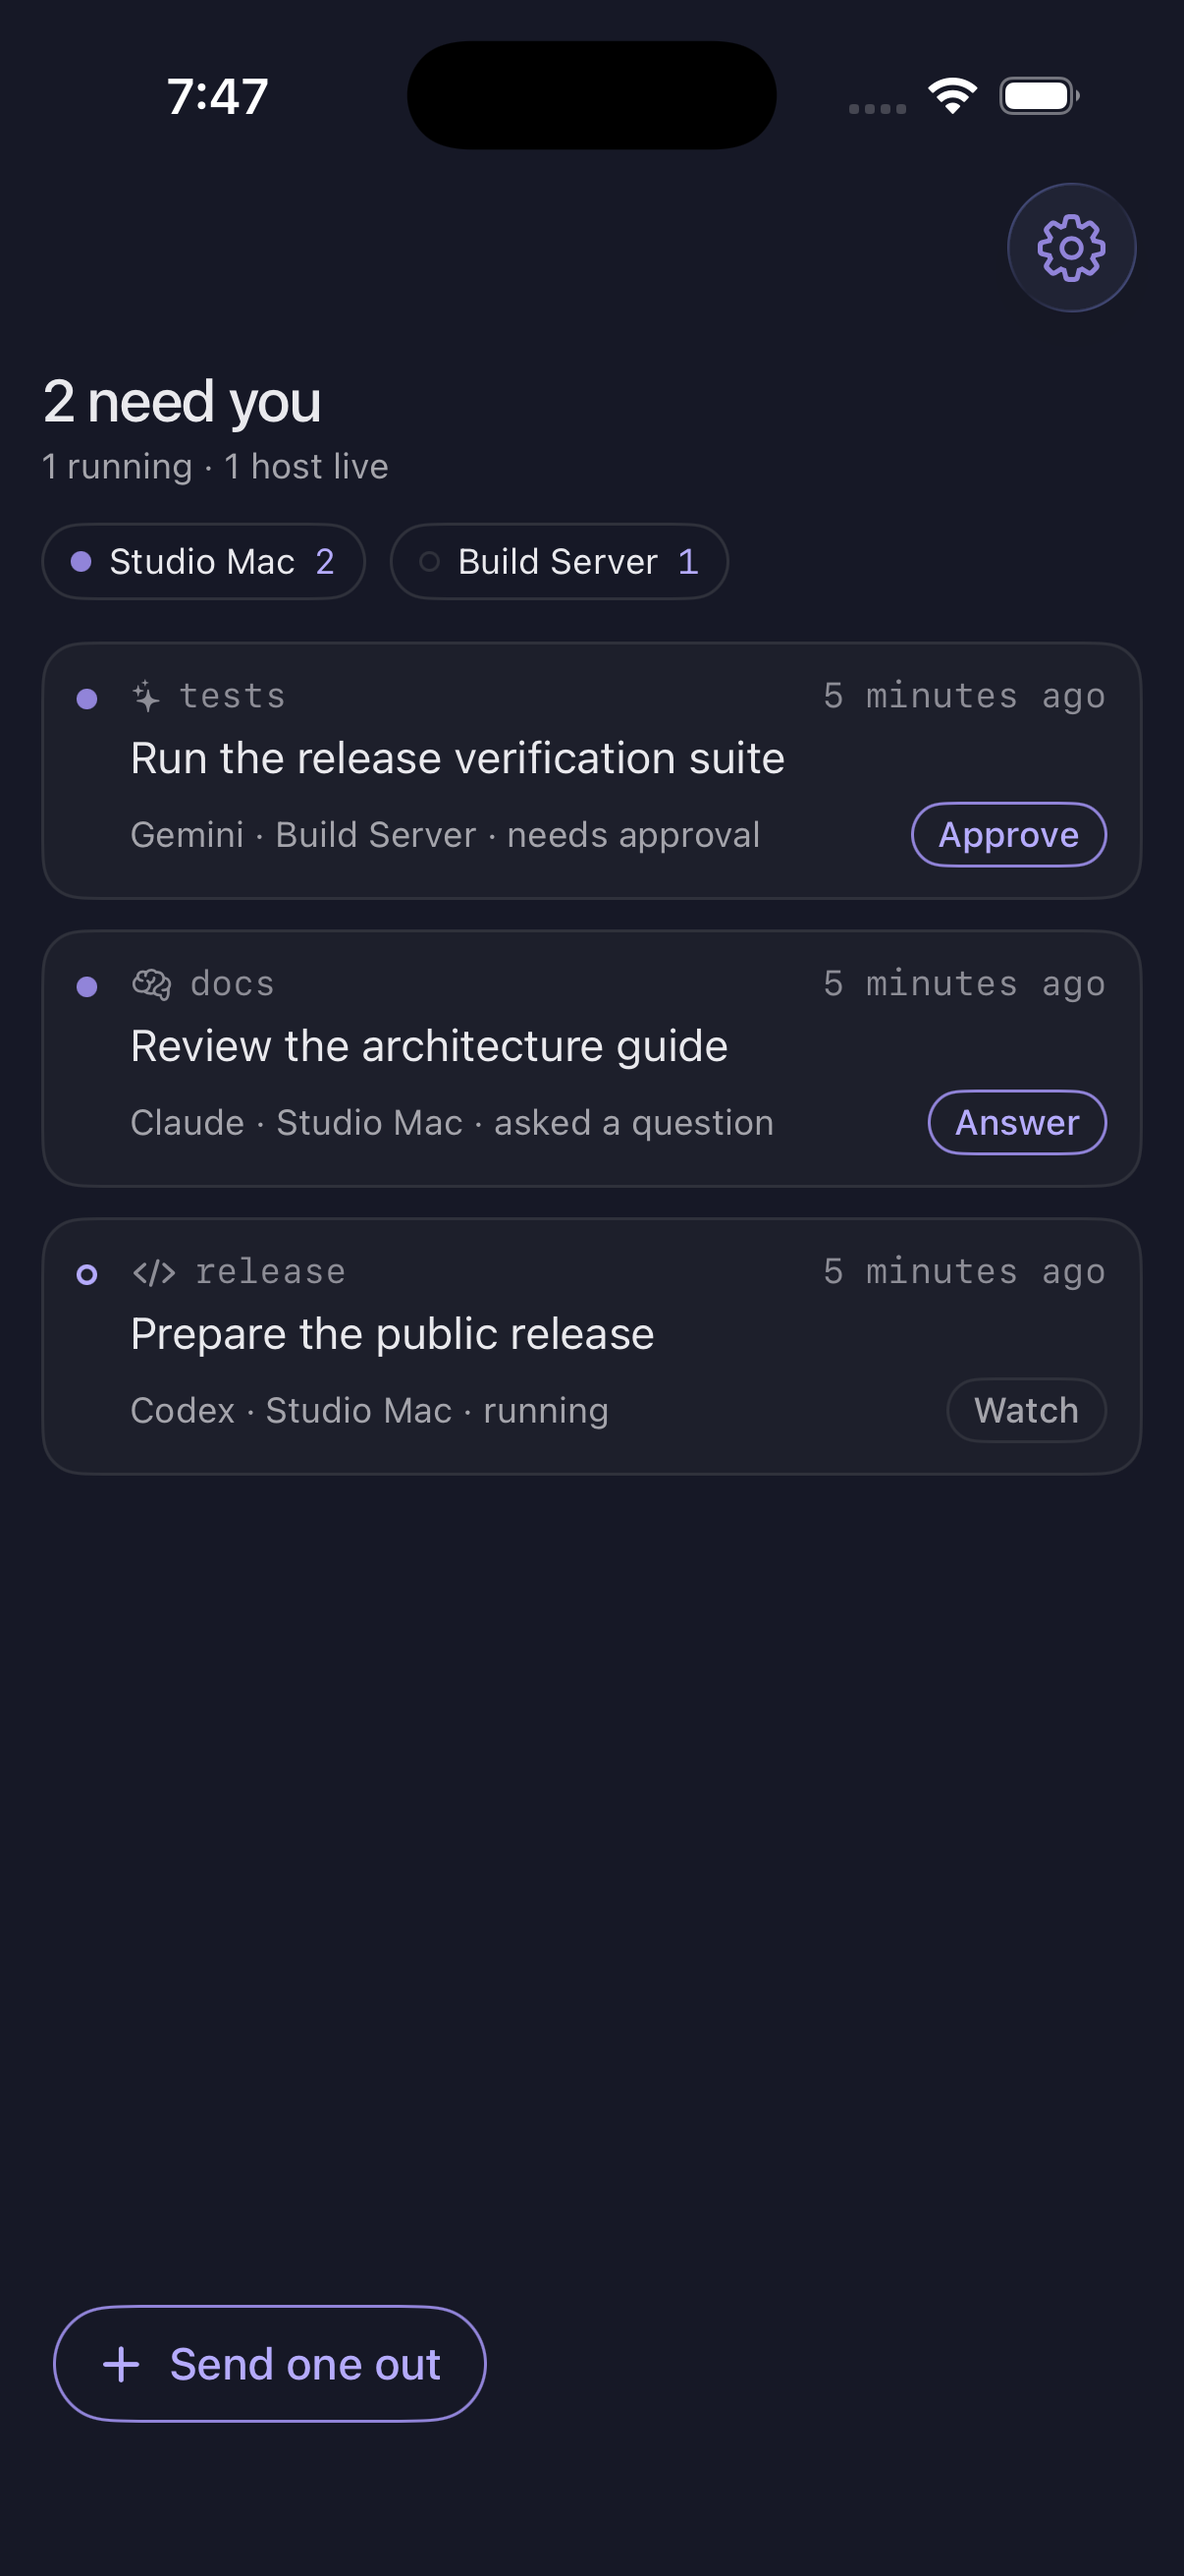
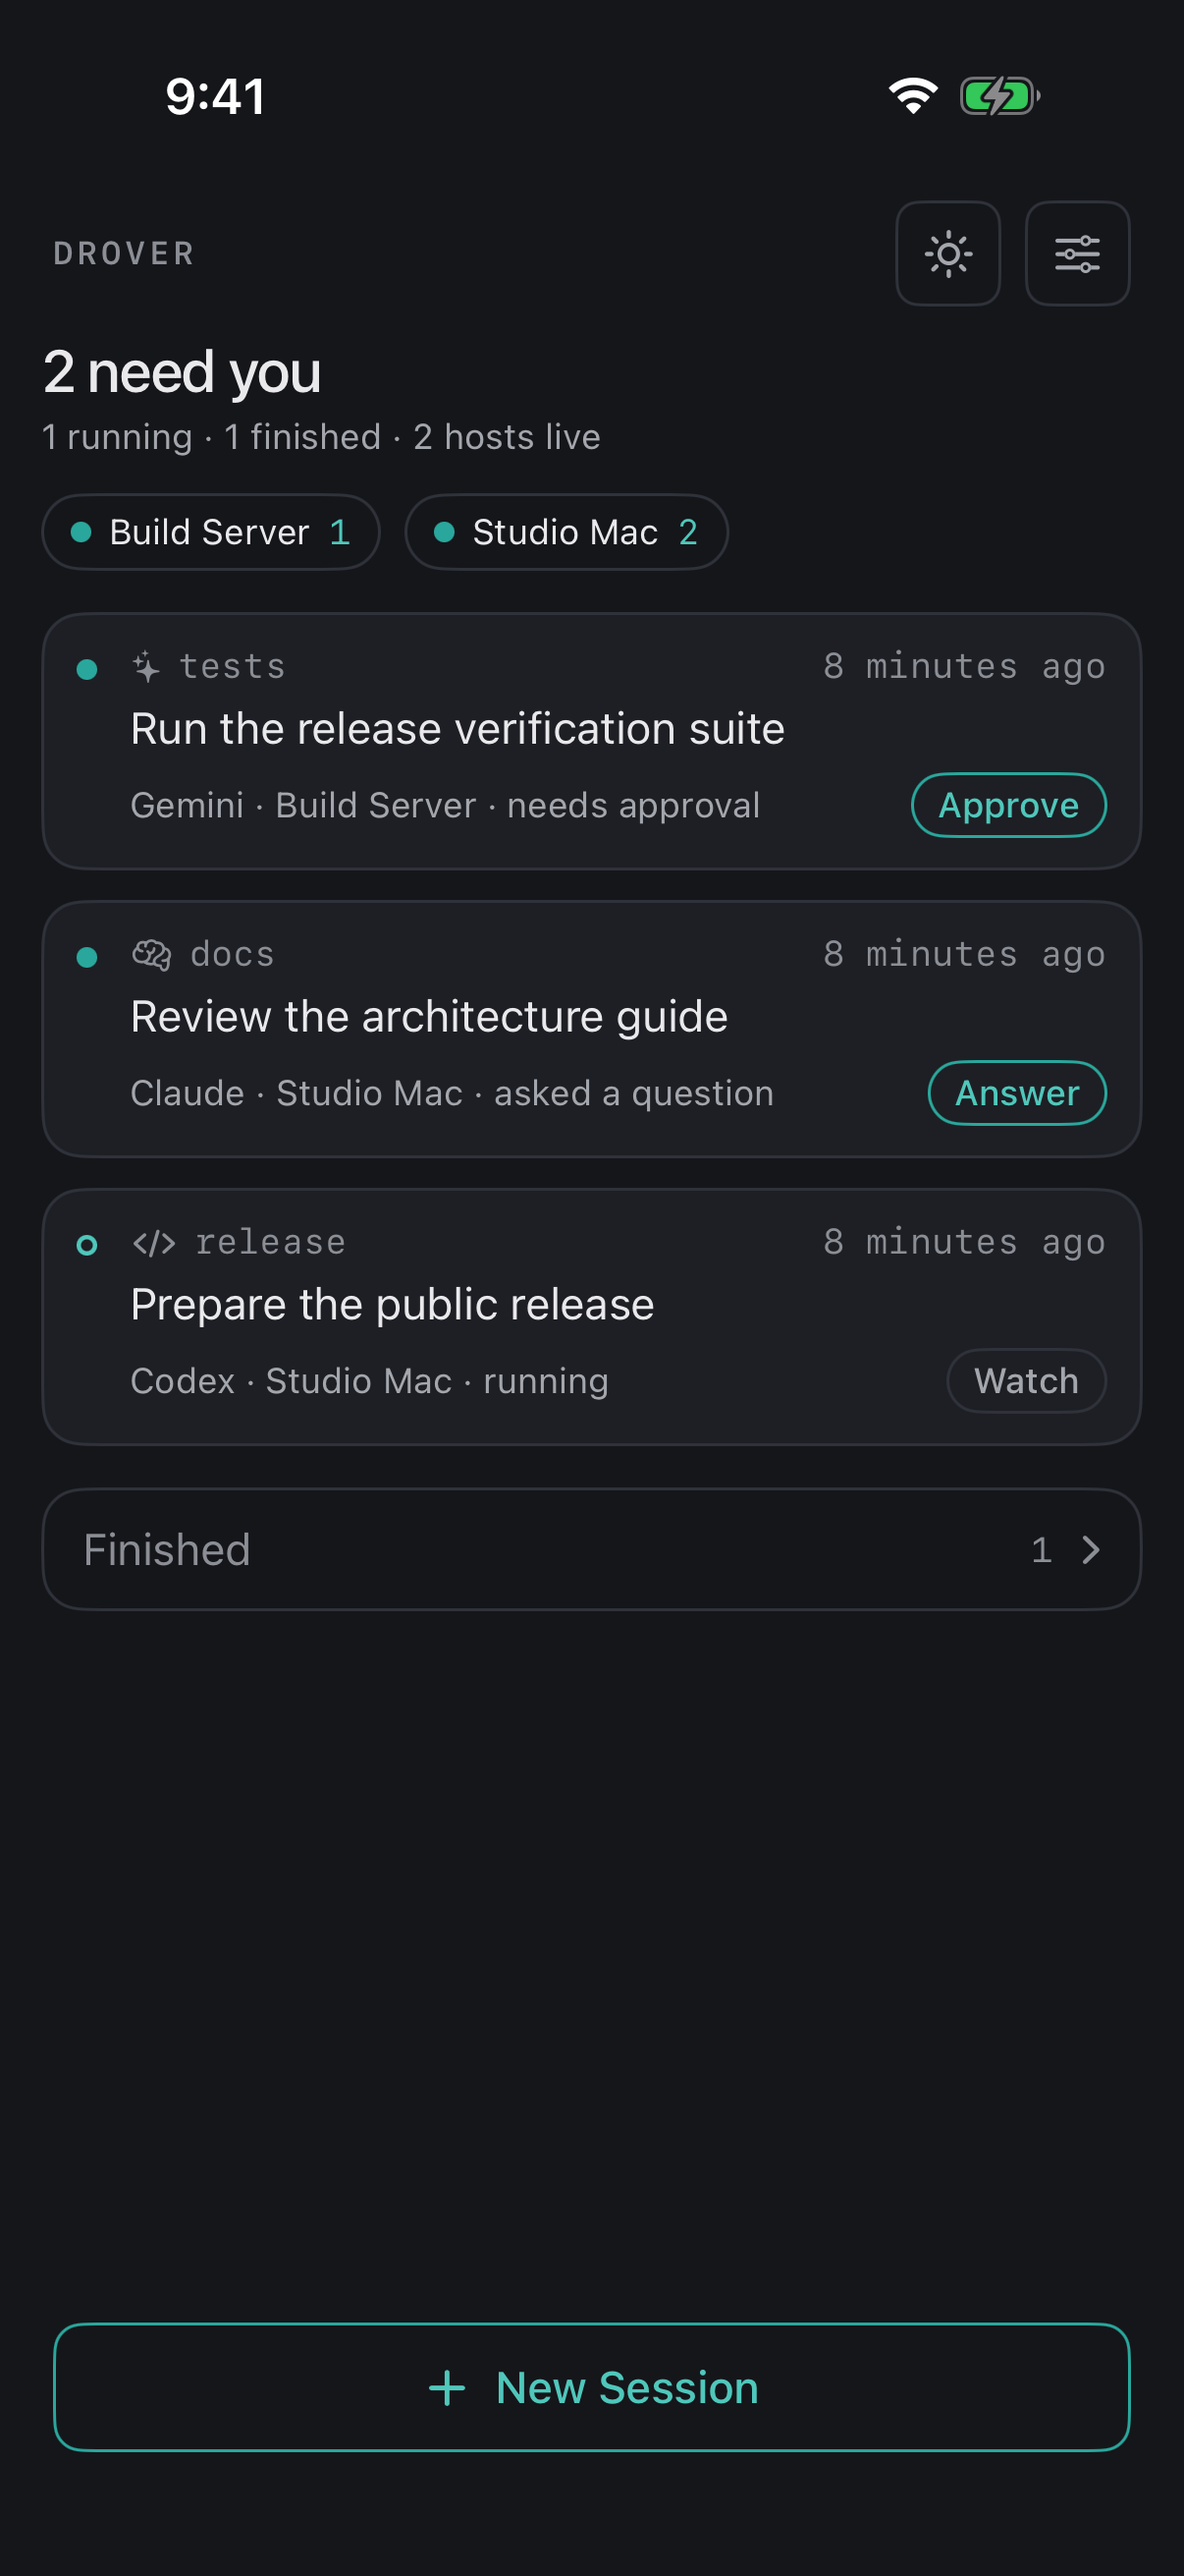
docs: refresh the README screenshots for the teal redesign
The captures were still purple, still said "Send one out", and still had the
toolbar gear. Retaken from the sanitized demo fixture at the same device
size, plus a light-mode capture of the same screen — the theme control is
the visible half of this change and one dark screenshot cannot show it.

diff --git a/README.md b/README.md
@@ -20,13 +20,16 @@ It does not require a Drover cloud service.
 ## Screenshots
 
 <p align="center">
-  <img src="docs/assets/screenshots/ios-fleet.png" alt="Drover fleet view showing active sessions across two hosts" width="360">
-  <img src="docs/assets/screenshots/ios-launch.png" alt="Drover new session controls" width="360">
+  <img src="docs/assets/screenshots/ios-fleet.png" alt="Drover fleet view showing active sessions across two hosts" width="290">
+  <img src="docs/assets/screenshots/ios-fleet-light.png" alt="The same fleet view in light mode" width="290">
+  <img src="docs/assets/screenshots/ios-launch.png" alt="Drover new session controls" width="290">
 </p>
 
 The fleet view groups live work by host and brings approvals and questions to
-the top. The launch sheet selects a host and harness, checks authentication,
-and carries model and reasoning preferences into the new session.
+the top. One palette contract covers both themes, and the control beside the
+wordmark switches between them. The launch sheet selects a host and harness,
+checks authentication, and carries model and reasoning preferences into the
+new session.
 
 ## How it works
 
